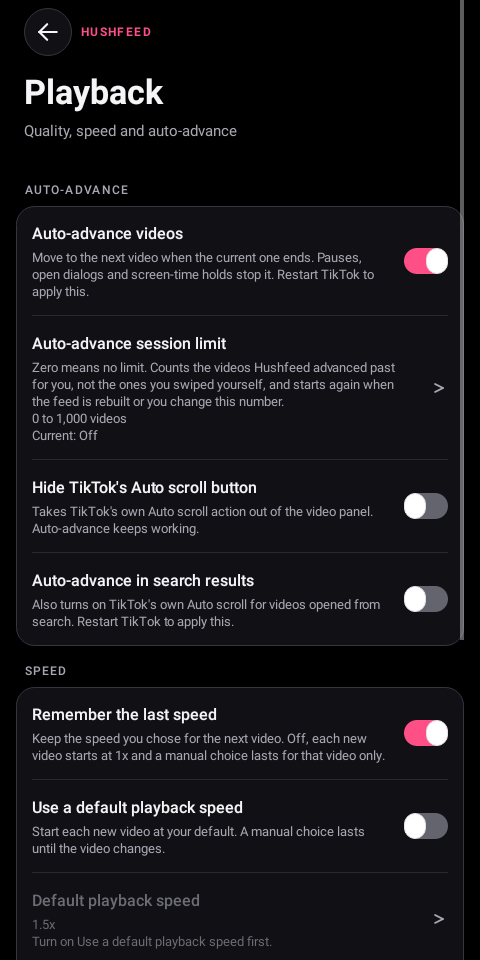
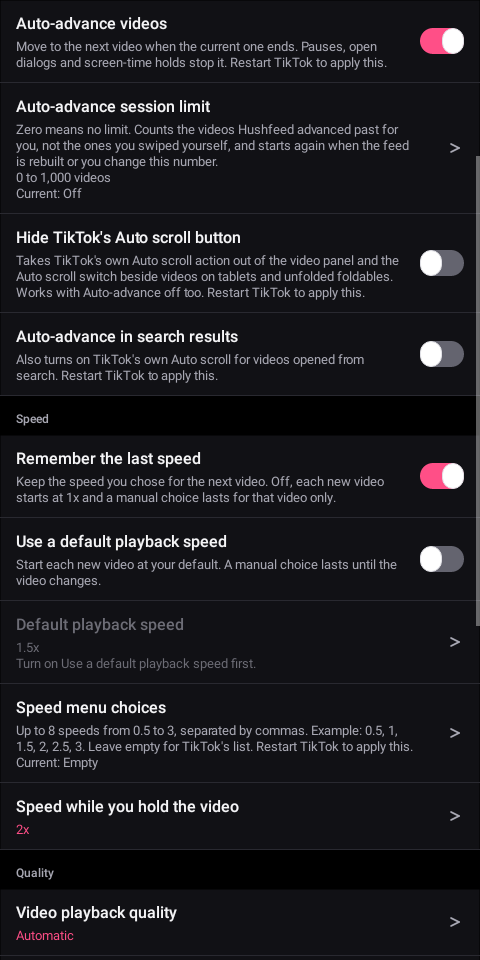
test: verify controls within expanded settings groups

diff --git a/extensions/tiktok/src/test/java/app/morphe/extension/tiktok/ghostmode/GhostModePrivacyTest.java b/extensions/tiktok/src/test/java/app/morphe/extension/tiktok/ghostmode/GhostModePrivacyTest.java
@@ -12,7 +12,7 @@ import android.os.Bundle;
 import android.os.Looper;
 import android.preference.Preference;
 import android.view.View;
-import android.view.ViewGroup;
+import android.widget.ListView;
 import android.widget.TextView;
 import app.morphe.extension.shared.Utils;
 import app.morphe.extension.shared.diagnostics.HookStatus;
@@ -22,6 +22,7 @@ import app.morphe.extension.tiktok.UiCapture;
 import app.morphe.extension.tiktok.settings.Settings;
 import app.morphe.extension.tiktok.settings.SettingsPagesTest.PageActivity;
 import app.morphe.extension.tiktok.settings.SettingsStatus;
+import app.morphe.extension.tiktok.settings.preference.SettingsMenuPreference;
 import app.morphe.extension.tiktok.settings.preference.TikTokPreferenceFragment;
 import com.ss.android.ugc.aweme.feed.model.Aweme;
 import java.lang.reflect.Field;
@@ -71,13 +72,13 @@ public class GhostModePrivacyTest {
         try (var owner = Robolectric.buildActivity(PageActivity.class).setup().visible()) {
             TikTokPreferenceFragment page = privacy(owner.get());
             Preference row = page.findPreference(Settings.GHOST_MODE.key);
-            View shown = row.getView(null, (ViewGroup) page.getView());
+            showPreference(page, row, 480, 960);
             assertTrue("the untouched process was not identified", summary(row).contains("hasn't seen TikTok send any reports since it started."));
             failStoryGetter();
             idle();
             assertTrue("the open row never learned about the failure", summary(row).contains("may still be reported"));
             assertTrue(Settings.GHOST_MODE.savedValue());
-            shown = row.getView(shown, (ViewGroup) page.getView());
+            View shown = showPreference(page, row, 480, 960);
             assertTrue(String.valueOf(shown.getStateDescription()).contains("Problem"));
             TextView text = shown.findViewById(android.R.id.summary);
             assertTrue(text.getText().toString().contains("may still be reported"));
@@ -118,10 +119,7 @@ public class GhostModePrivacyTest {
         try (var owner = Robolectric.buildActivity(PageActivity.class).setup().visible()) {
             TikTokPreferenceFragment page = privacy(owner.get());
             Preference row = page.findPreference(Settings.GHOST_MODE.key);
-            View shown = row.getView(null, (ViewGroup) page.getView());
-            shown.measure(View.MeasureSpec.makeMeasureSpec(320, View.MeasureSpec.EXACTLY),
-                    View.MeasureSpec.makeMeasureSpec(0, View.MeasureSpec.UNSPECIFIED));
-            shown.layout(0, 0, 320, shown.getMeasuredHeight());
+            View shown = showPreference(page, row, 320, 960);
             UiCapture.save(page.getView(), "ghost-warning-light-large.png", 320, 960);
             TextView text = shown.findViewById(android.R.id.summary);
             assertTrue(text.getText().toString().contains("may still be reported"));
@@ -147,6 +145,33 @@ public class GhostModePrivacyTest {
         activity.getFragmentManager().executePendingTransactions();
         idle();
         return page;
+    }
+
+    private static View showPreference(TikTokPreferenceFragment page, Preference preference, int width, int height) {
+        var privacy = (SettingsMenuPreference) page.findPreference("section_privacy");
+        assertNotNull(privacy);
+        assertTrue(privacy.isExpanded());
+        assertSame(preference, privacy.findPreference(preference.getKey()));
+        idle();
+        ListView list = page.getView().findViewById(android.R.id.list);
+        int position = -1;
+        for (int index = 0; index < list.getCount(); index++) {
+            if (list.getItemAtPosition(index) == preference) position = index;
+        }
+        assertTrue("Ghost mode is absent from the expanded list", position >= 0);
+        list.setSelectionFromTop(position, 0);
+        View root = page.getView();
+        for (int frame = 0; frame < 4; frame++) {
+            Shadows.shadowOf(Looper.getMainLooper()).idleFor(java.time.Duration.ofMillis(16));
+            root.measure(View.MeasureSpec.makeMeasureSpec(width, View.MeasureSpec.EXACTLY),
+                    View.MeasureSpec.makeMeasureSpec(height, View.MeasureSpec.EXACTLY));
+            root.layout(0, 0, width, height);
+        }
+        View shown = list.getChildAt(position - list.getFirstVisiblePosition());
+        assertNotNull("Ghost mode was not laid out for its capture", shown);
+        assertTrue(shown.isShown());
+        assertTrue(shown.getGlobalVisibleRect(new android.graphics.Rect()));
+        return shown;
     }
 
     private static String summary(Preference row) {

diff --git a/extensions/tiktok/src/test/java/app/morphe/extension/tiktok/privacy/PrivacySwitchesTest.java b/extensions/tiktok/src/test/java/app/morphe/extension/tiktok/privacy/PrivacySwitchesTest.java
@@ -41,6 +41,7 @@ import app.morphe.extension.shared.settings.EarlyApplication;
 import app.morphe.extension.shared.settings.PausedProcess;
 import app.morphe.extension.tiktok.settings.Settings;
 import app.morphe.extension.tiktok.settings.SettingsStatus;
+import app.morphe.extension.tiktok.settings.preference.SettingsMenuPreference;
 import app.morphe.extension.tiktok.settings.preference.TikTokPreferenceFragment;
 
 import org.junit.After;
@@ -858,18 +859,18 @@ public class PrivacySwitchesTest {
         try (var owner = Robolectric.buildActivity(Activity.class).setup().visible()) {
             Activity activity = owner.get();
             Utils.setContext(activity);
-            TikTokPreferenceFragment privacy = open(activity, "PRIVACY");
+            SettingsMenuPreference privacy = open(activity, "PRIVACY");
             List<String> keys = keysOn(privacy);
             List<String> expected = List.of(Settings.DISABLE_ANALYTICS.key, Settings.GHOST_MODE.key,
                     Settings.STOP_SEARCH_HISTORY.key, Settings.BLOCK_CONTACT_LIST.key, Settings.BLOCK_INSTALLED_APPS.key,
                     Settings.BLOCK_LOCATION.key, Settings.BLOCK_CLIPBOARD_READS.key, Settings.HIDE_VPN.key,
                     Settings.BLOCK_ADVERTISING_ID.key, Settings.BLOCK_MOTION_SENSORS.key, Settings.STOP_BENCHMARK_RUNS.key,
                     Settings.CAMERA_MIC_INDICATOR.key, Settings.BLOCK_WEBVIEW_JS_INTERFACES.key);
-            assertEquals("the Privacy page lists tracking, then device access, then links",
+            assertEquals("the Privacy category lists tracking, then device access, then links",
                     expected, keys.stream().filter(expected::contains).toList());
             assertNotNull("Tracking heading", privacy.findPreference(Settings.GHOST_MODE.key));
 
-            TikTokPreferenceFragment behavior = open(activity, "BEHAVIOR");
+            SettingsMenuPreference behavior = open(activity, "BEHAVIOR");
             assertNull("Ghost mode has moved off App behavior", behavior.findPreference(Settings.GHOST_MODE.key));
             assertNull(behavior.findPreference(Settings.DISABLE_ANALYTICS.key));
             assertNotNull("the layout rows are still App behavior's",
@@ -877,7 +878,7 @@ public class PrivacySwitchesTest {
         }
     }
 
-    private static TikTokPreferenceFragment open(Activity activity, String section) {
+    private static SettingsMenuPreference open(Activity activity, String section) {
         TikTokPreferenceFragment fragment = new TikTokPreferenceFragment();
         Bundle arguments = new Bundle();
         arguments.putString("morphe_settings_section", section);
@@ -885,14 +886,18 @@ public class PrivacySwitchesTest {
         activity.getFragmentManager().beginTransaction().replace(android.R.id.content, fragment).commit();
         activity.getFragmentManager().executePendingTransactions();
         Shadows.shadowOf(android.os.Looper.getMainLooper()).idle();
-        return fragment;
+        SettingsMenuPreference group = (SettingsMenuPreference) fragment.findPreference(
+                "section_" + section.toLowerCase(java.util.Locale.ROOT));
+        assertNotNull("the main list has no " + section + " category", group);
+        assertTrue("the requested category stayed collapsed", group.isExpanded());
+        assertEquals(0, activity.getFragmentManager().getBackStackEntryCount());
+        return group;
     }
 
-    private static List<String> keysOn(TikTokPreferenceFragment fragment) {
-        var screen = fragment.getPreferenceScreen();
+    private static List<String> keysOn(SettingsMenuPreference group) {
         java.util.ArrayList<String> keys = new java.util.ArrayList<>();
-        for (int index = 0; index < screen.getPreferenceCount(); index++) {
-            String key = screen.getPreference(index).getKey();
+        for (int index = 0; index < group.getPreferenceCount(); index++) {
+            String key = group.getPreference(index).getKey();
             if (key != null) keys.add(key);
         }
         return keys;

diff --git a/extensions/tiktok/src/test/java/app/morphe/extension/tiktok/interaction/AutoAdvanceTest.java b/extensions/tiktok/src/test/java/app/morphe/extension/tiktok/interaction/AutoAdvanceTest.java
@@ -2,12 +2,14 @@ package app.morphe.extension.tiktok.interaction;
 
 import static org.junit.Assert.*;
 import android.view.View;
+import android.widget.ListView;
 import app.morphe.extension.shared.Utils;
 import app.morphe.extension.tiktok.settings.Settings;
 import app.morphe.extension.tiktok.wellbeing.FeedLock;
 import app.morphe.extension.tiktok.wellbeing.SessionBudget;
 import app.morphe.extension.tiktok.wellbeing.SessionPlaybackHold;
 import app.morphe.extension.tiktok.settings.SettingsStatus;
+import app.morphe.extension.tiktok.settings.preference.SettingsMenuPreference;
 import app.morphe.extension.tiktok.settings.preference.TikTokPreferenceFragment;
 import java.util.concurrent.atomic.AtomicInteger;
 import java.util.concurrent.atomic.AtomicReference;
@@ -486,9 +488,32 @@ public class AutoAdvanceTest {
             fragment.setArguments(arguments);
             activity.getFragmentManager().beginTransaction().replace(android.R.id.content, fragment).commit();
             activity.getFragmentManager().executePendingTransactions();
-            assertNotNull(fragment.findPreference("auto_advance"));
+            var playback = (SettingsMenuPreference) fragment.findPreference("section_playback");
+            assertNotNull(playback);
+            assertTrue(playback.isExpanded());
+            var preference = playback.findPreference(Settings.AUTO_ADVANCE.key);
+            assertNotNull(preference);
             org.robolectric.Shadows.shadowOf(android.os.Looper.getMainLooper()).idle();
-            app.morphe.extension.tiktok.UiCapture.save(activity.getWindow().getDecorView(), "auto-advance-settings.png");
+            ListView list = fragment.getView().findViewById(android.R.id.list);
+            int position = -1;
+            for (int index = 0; index < list.getCount(); index++) {
+                if (list.getItemAtPosition(index) == preference) position = index;
+            }
+            assertTrue("Auto-advance is absent from the expanded list", position >= 0);
+            list.setSelectionFromTop(position, 0);
+            View decor = activity.getWindow().getDecorView();
+            for (int frame = 0; frame < 4; frame++) {
+                org.robolectric.Shadows.shadowOf(android.os.Looper.getMainLooper())
+                        .idleFor(java.time.Duration.ofMillis(16));
+                decor.measure(View.MeasureSpec.makeMeasureSpec(480, View.MeasureSpec.EXACTLY),
+                        View.MeasureSpec.makeMeasureSpec(960, View.MeasureSpec.EXACTLY));
+                decor.layout(0, 0, 480, 960);
+            }
+            View shown = list.getChildAt(position - list.getFirstVisiblePosition());
+            assertNotNull("Auto-advance was not laid out for its capture", shown);
+            assertTrue(shown.isShown());
+            assertTrue(shown.getGlobalVisibleRect(new android.graphics.Rect()));
+            app.morphe.extension.tiktok.UiCapture.save(decor, "auto-advance-settings.png");
         }
     }
 

diff --git a/extensions/tiktok/src/test/java/app/morphe/extension/tiktok/speed/PlaybackSpeedTest.java b/extensions/tiktok/src/test/java/app/morphe/extension/tiktok/speed/PlaybackSpeedTest.java
@@ -3,10 +3,13 @@ package app.morphe.extension.tiktok.speed;
 import static org.junit.Assert.*;
 import android.os.Bundle;
 import android.preference.SwitchPreference;
+import android.view.View;
+import android.widget.ListView;
 import app.morphe.extension.shared.Utils;
 import app.morphe.extension.shared.settings.PausedProcess;
 import app.morphe.extension.tiktok.settings.Settings;
 import app.morphe.extension.tiktok.settings.SettingsStatus;
+import app.morphe.extension.tiktok.settings.preference.SettingsMenuPreference;
 import app.morphe.extension.tiktok.settings.preference.TikTokPreferenceFragment;
 import com.ss.android.ugc.aweme.feed.model.Aweme;
 import java.util.List;
@@ -121,9 +124,32 @@ public class PlaybackSpeedTest {
             org.robolectric.Shadows.shadowOf(android.os.Looper.getMainLooper()).idle();
             assertTrue(Settings.DEFAULT_SPEED_ENABLED.get());
             assertEquals("1, 1.5, 2.5, 3", Settings.CUSTOM_SPEEDS.get());
-            assertNotNull(fragment.findPreference("default_speed"));
+            var playback = (SettingsMenuPreference) fragment.findPreference("section_playback");
+            assertNotNull(playback);
+            assertTrue(playback.isExpanded());
+            var speed = playback.findPreference(Settings.DEFAULT_SPEED.key);
+            assertNotNull(speed);
             assertNull(fragment.findPreference("playback_quality"));
-            app.morphe.extension.tiktok.UiCapture.save(activity.getWindow().getDecorView(), "playback-speed-settings.png");
+            ListView list = fragment.getView().findViewById(android.R.id.list);
+            int position = -1;
+            for (int index = 0; index < list.getCount(); index++) {
+                if (list.getItemAtPosition(index) == speed) position = index;
+            }
+            assertTrue("Default speed is absent from the expanded list", position >= 0);
+            list.setSelectionFromTop(position, 0);
+            View decor = activity.getWindow().getDecorView();
+            for (int frame = 0; frame < 4; frame++) {
+                org.robolectric.Shadows.shadowOf(android.os.Looper.getMainLooper())
+                        .idleFor(java.time.Duration.ofMillis(16));
+                decor.measure(View.MeasureSpec.makeMeasureSpec(480, View.MeasureSpec.EXACTLY),
+                        View.MeasureSpec.makeMeasureSpec(960, View.MeasureSpec.EXACTLY));
+                decor.layout(0, 0, 480, 960);
+            }
+            View shown = list.getChildAt(position - list.getFirstVisiblePosition());
+            assertNotNull("Default speed was not laid out for its capture", shown);
+            assertTrue(shown.isShown());
+            assertTrue(shown.getGlobalVisibleRect(new android.graphics.Rect()));
+            app.morphe.extension.tiktok.UiCapture.save(decor, "playback-speed-settings.png");
         }
     }
     @Test public void theHoldSpeedRowReplacesTikToksTwoTimesAndBadValuesLeaveIt() {

diff --git a/extensions/tiktok/src/test/java/app/morphe/extension/tiktok/privacy/RootSignalsTest.java b/extensions/tiktok/src/test/java/app/morphe/extension/tiktok/privacy/RootSignalsTest.java
@@ -22,6 +22,7 @@ import app.morphe.extension.shared.settings.Setting;
 import app.morphe.extension.tiktok.SettingsContextRule;
 import app.morphe.extension.tiktok.settings.Settings;
 import app.morphe.extension.tiktok.settings.SettingsStatus;
+import app.morphe.extension.tiktok.settings.preference.SettingsMenuPreference;
 import app.morphe.extension.tiktok.settings.preference.TikTokPreferenceFragment;
 import app.morphe.extension.tiktok.settings.preference.TogglePreference;
 
@@ -204,14 +205,17 @@ public class RootSignalsTest {
             assertNull(openPrivacy(activity).findPreference(Settings.HIDE_ROOT.key));
             SettingsStatus.devicePrivacyGuardEnabled = true;
             var privacy = openPrivacy(activity);
-            SwitchPreference row = (SwitchPreference) privacy.findPreference(Settings.HIDE_ROOT.key);
+            SettingsMenuPreference group = (SettingsMenuPreference) privacy.findPreference("section_privacy");
+            assertNotNull(group);
+            assertTrue("Privacy stayed collapsed", group.isExpanded());
+            SwitchPreference row = (SwitchPreference) group.findPreference(Settings.HIDE_ROOT.key);
             assertNotNull(row);
             assertEquals("Hide root", row.getTitle());
             assertEquals("Hide root status and details about root tools from TikTok. "
                     + TogglePreference.RESTART_SENTENCE, row.getSummary());
             assertFalse(row.isChecked());
-            assertEquals(1, java.util.stream.IntStream.range(0, privacy.getPreferenceScreen().getPreferenceCount())
-                    .mapToObj(index -> privacy.getPreferenceScreen().getPreference(index).getKey())
+            assertEquals(1, java.util.stream.IntStream.range(0, group.getPreferenceCount())
+                    .mapToObj(index -> group.getPreference(index).getKey())
                     .filter(Settings.HIDE_ROOT.key::equals).count());
         }
     }
